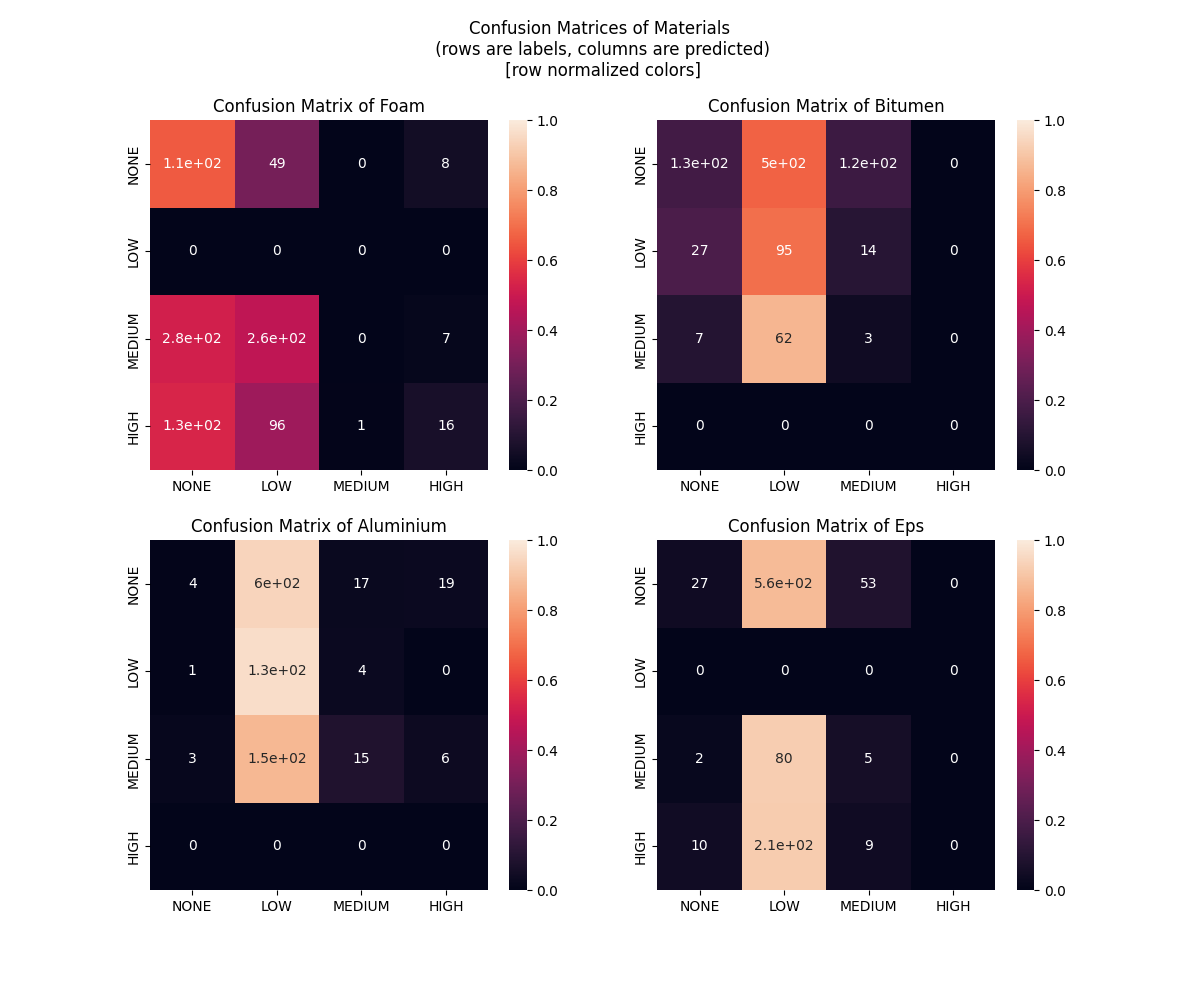
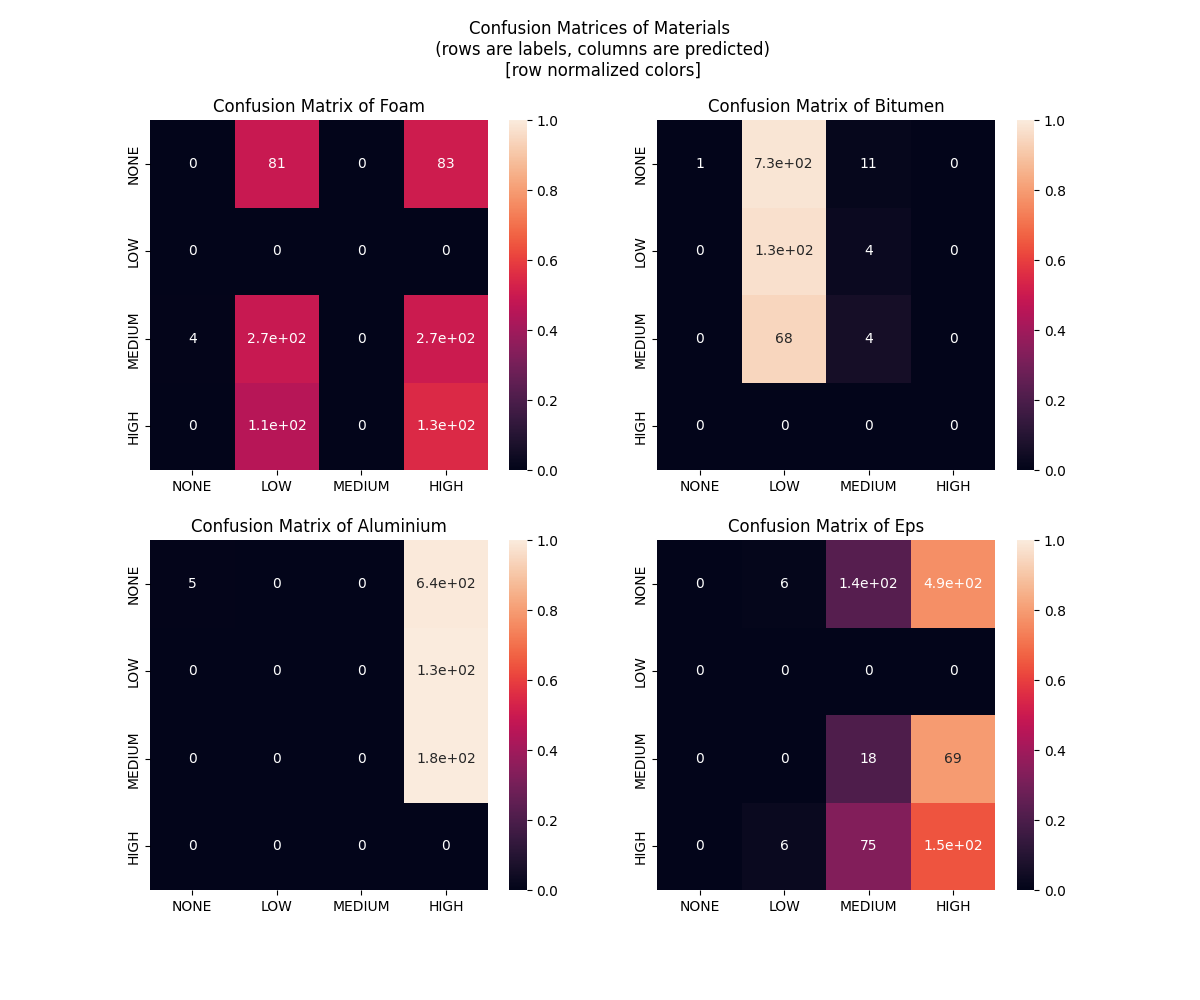
fixed live

diff --git a/src/live.py b/src/live.py
@@ -14,21 +14,23 @@ def take_photo():
     cv2.imwrite('webcamphoto.jpg', frame)
     cap.release()
 
-#Note: To use with phone, use IP Webcam App and use http://192.168.2.5:8080/video for address
+#Note: To use with phone, use IP Webcam App and use https://192.168.2.5:8080/video for address
 # https://play.google.com/store/apps/details?id=com.pas.webcam&hl=en-US
 
-def live_video(network, address):
+def live_video(network, address=0):
 
     try:
-        cap = cv2.VideoCapture(0)
+        cap = cv2.VideoCapture(address)
     except Exception:
         print("Incorrect camera url given")
         return
 
     while cap.isOpened():
 
-        time.sleep(0) #decide how often to sample images for analysis #to not overheat computer
-        ret, frame = cap.read(address)
+        #time.sleep(0) #decide how often to sample images for analysis #to not overheat computer
+        ret, frame = cap.read()
+        if not ret:
+            break
 
         img = process_live_images(frame)
         pred = cnn.test_image(network, img)
